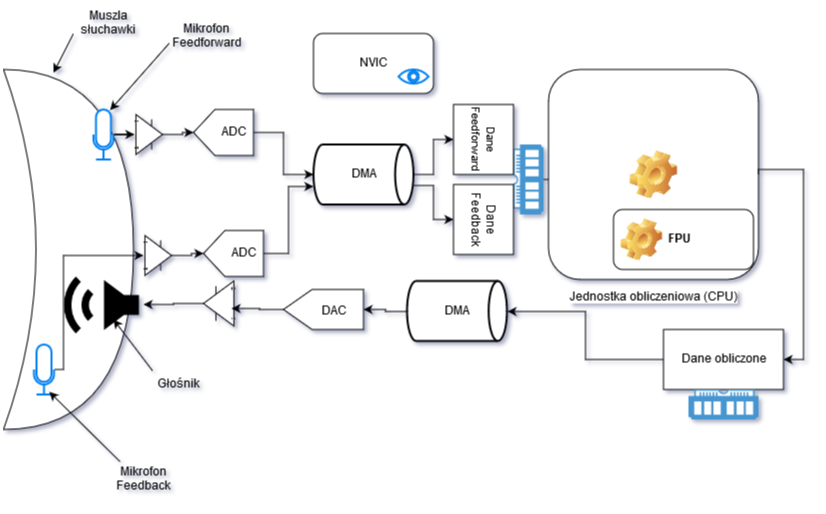
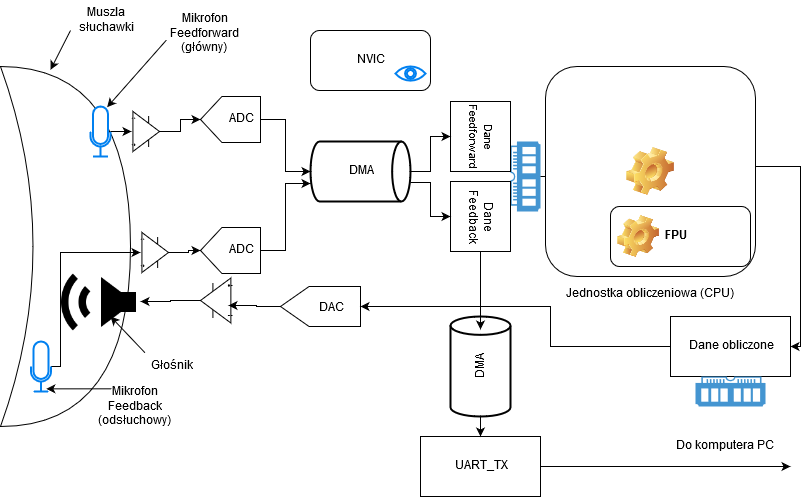
Added some assets and modified minor stuff in chapters
Summary:
- Photos of some of the components used
- Modified system schematic
- Minor changes in chapters

diff --git a/Tekst/rozdzial4Build.tex b/Tekst/rozdzial4Build.tex
@@ -3,25 +3,43 @@
 W~tym rozdziale, po wybraniu rodzaju konstrukcji oraz platformy sprzętowej, autor przedstawia zastosowane komponenty oraz generalną konstrukcję mechaniczną  i~elektryczną budowanego projektu.
 \section{Zastosowane komponenty}
 \label{sec:komponenty}
-Aby skonstruować kompletny system pasywno-aktywnego tłumienia hałasu, autor zbudował swój projekt na bazie prostych, komercyjnych nauszników tłumiących ze sklepu z~artykułami BHP, stosowanych w~budownictwie lub przemyśle (rys. \ref{fig:nauszniki}).
+Aby skonstruować kompletny system pasywno-aktywnego tłumienia hałasu, autor zbudował swój projekt na bazie prostych, komercyjnych nauszników tłumiących ze sklepu z~artykułami BHP, stosowanych w~budownictwie lub przemyśle (rys. \ref{fig:nauszniki_bhp}).
 \begin{figure}[h!]
 	\centering
-	\includegraphics[scale=0.5]{../Assets/nauszniki.png}
-	\caption{Użyte w~projekcie nauszniki ochronne.}
-	\label{fig:nauszniki}
+	\includegraphics[scale=0.4]{../Assets/nauszniki_bhp.png}
+	\caption{Użyte w~projekcie nauszniki ochronne.\\ Źródło: Copyright \textsuperscript{\textcopyright} by REIS GROUP}
+	\label{fig:nauszniki_bhp}
 \end{figure}
 
 Nauszniki te stanowią część tłumiącą pasywnie. Do stworzenia i~zaimplementowania części aktywnej układu zastosowano wymienione poniżej elektroniczne elementy analogowe oraz cyfrowe, przy czym elementy cyfrowe są wymienione każdy z~osobna, pomimo iż stanowią integralne podzespoły mikrokontrolera.
 \begin{enumerate}
 	\item Analogowe:
 	\begin{itemize}
-		\item Pojemnościowy mikrofon elektretowy typu CMA-4544PF-W -- dwie sztuki\\
-		Jeden główny (feedforward) oraz jeden odsłuchowy (feedback) wewnątrz muszli.
+		\item Pojemnościowy mikrofon elektretowy typu CMA-4544PF-W (rys. \ref{fig:mikrofony_max4466}) -- dwie sztuki\\
+		\begin{figure}[h!]
+			\centering
+			\includegraphics[scale=0.2]{../Assets/adafruit_max4466.png}
+			\caption{Użyte w~projekcie mikrofony z~przedwzmacniaczami.\\ Źródło: https://cdn-shop.adafruit.com/970x728/1063-03.jpg}
+			\label{fig:mikrofony_max4466}
+		\end{figure}
+		W~urządzeniu zamontowano jeden główny (feedforward) na zewnątrz muszli oraz jeden odsłuchowy (feedback) wewnątrz muszli słuchawki.
 		\item Przedwzmacniacz mikrofonowy typu Adafruit MAX4466 -- dwie sztuki\\
-		Wzmacniacz operacyjny zoptymalizowany przez producenta pod kątem wykorzystania z~mikrofonami. Autor zakupił przedwzmacniacz połączony przez producenta z~wyżej wymienionym mikrofonem w~ramach jednej płytki. Należy pamiętać o~potrzebie wprowadzenia korekty fazy po przesunięciu jej przez ten komponent.
-		\item Wzmacniacz audio klasy D typu Adafruit PAM8302\\
+		Wzmacniacz operacyjny zoptymalizowany przez producenta pod kątem wykorzystania z~mikrofonami. Autor zakupił przedwzmacniacz połączony przez producenta z~wyżej wymienionym mikrofonem w~ramach jednej płytki (rys. \ref{fig:mikrofony_max4466}). Należy pamiętać o~przesunięciu fazy sygnału -- jednak ten problem powinien zostać rozwiązany przez filtr adaptacyjny.
+		\item Wzmacniacz audio klasy D typu Adafruit PAM8302 (rys. \ref{fig:pam8302})\\
+		\begin{figure}[h!]
+			\centering
+			\includegraphics[scale=0.2]{../Assets/wzmacniacz_pam8302.png}
+			\caption{Użyty w~projekcie wzmacniacz audio.\\ Źródło: https://cdn-shop.adafruit.com/970x728/2130-01.jpg}
+			\label{fig:pam8302}
+		\end{figure}
 		Ten wzmacniacz monofoniczny o~mocy \SI{2.5}{\W} przeznaczony jest do współpracy z~głośnikami o~impedancji od \SI{4}{} do \SI{8}{\ohm}. Producent deklaruje sprawność w~zakresie 85-88\% \cite{speakeropamp} oraz niski współczynnik zawartości harmonicznych i~szumów (THD+N) wynoszący 10\%.
-		\item Głośnik typu MG15 o~mocy \SI{0.1}{\W} oraz impedancji \SI{8}{\ohm}
+		\item Głośnik typu MG15 o~mocy \SI{0.1}{\W} oraz impedancji \SI{8}{\ohm} (rys. \ref{fig:mg15})\\
+		\begin{figure}[h!]
+			\centering
+			\includegraphics[scale=0.1]{../Assets/glosnik_mg15.png}
+			\caption{Użyty w~projekcie głośnik.\\ Źródło: https://botland.com.pl/49567-thickbox\_default/glosnik-mg15-01w-8ohm-15x4mm.jpg}
+			\label{fig:mg15}
+		\end{figure}
 	\end{itemize}
 	\item Cyfrowe:
 	\begin{itemize}
@@ -29,7 +47,7 @@ Nauszniki te stanowią część tłumiącą pasywnie. Do stworzenia i~zaimplemen
 		Autor zdecydował się użyć dwóch osobnych przetworników do akwizycji sygnału z~mikrofonów, aby uniknąć przesłuchów, które mogłyby się pojawić w~przypadku użycia pojedynczego przetwornika. Przyczyną przesłuchów jest zwykle multiplekser analogowy wybierający kanały wejściowe przetwornika A/C. Takie rozwiązanie zmniejsza też nieznacznie opóźnienia w~przetworzeniu sygnału, gdyż można wtedy skonfigurować przetworniki w~trybie mierzenia pojedynczego kanału, a~nie skanowania po kolei wszystkich dostępnych~16. Przetwornik realizuje algorytm SAR\footnote{Sukcesywna Aproksymacja (ang. Successive Approximation Register, inaczej próbkowanie bitowe)}.\\
 		Warto zauważyć, że przetworniki dostępne na płytce użytej przez autora mają rozdzielczość 12~bitów, co pozostawia pewne pole do poprawy projektu i~wyboru komponentów, ale jednocześnie zapewnia wystarczający poziom dokładności dla potrzeb prototypowania układu.
 		\item Kontroler DMA (Direct Memory Access) -- dwie sztuki\\
-		Jeden z~kontrolerów użyty jest do transferu danych z~przetworników~A/D do pamięci mikrokontrolera STM32, zaś drugi - do transferu po przeprowadzeniu obliczeń z~pamięci do przetwornika D/A. Transfer w~pierwszym przypadku dokonywany jest w~trybie ciągłym, a~więc po każdym przerwaniu do DMA zgłoszonym przez przetwornik na końcu konwersji. W~drugim przypadku, transfer wywoływany jest po każdym skończonym cyklu obliczeniowym.
+		Jeden z~kontrolerów użyty jest do transferu danych z~przetworników~A/C do pamięci mikrokontrolera STM32, zaś drugi - do transferu (po przeprowadzeniu eksperymentu) danych mikrofonu odsłuchowego z~pamięci do kontrolera UART. Transfer w~pierwszym przypadku dokonywany jest w~trybie ciągłym, a~więc po każdym przerwaniu do DMA zgłoszonym przez przetwornik na końcu konwersji. W~drugim przypadku, transfer wywoływany jest po wciśnięciu przez testera przycisku na płytce prototypowej.
 		\item NVIC (Nested Vectored Interrupt Controller)\\
 		Kontroler przerwań (zagnieżdżonych), który przyspiesza ich obsługę.
 		\item Rdzeń mikrokontrolera\\
@@ -37,7 +55,7 @@ Nauszniki te stanowią część tłumiącą pasywnie. Do stworzenia i~zaimplemen
 		\item FPU (Floating Point Unit)\\
 		Jednostka dedykowana do obliczeń zmiennoprzecinkowych na liczbach 32-bitowych (a~więc typu float). Znacznie podnosi precyzję obliczeń na ułamkach i~przyspiesza działanie całego układu jeżeli takich działań jest dużo. Należy jednak pamiętać, że nie działa dla typu double (więc 64-bit). 
 		\item Przetwornik cyfrowo-analogowy\\
-		Do celu prototypowego użyto jednego kanału wyjściowego, aby przetestować działanie systemu w~jednolitej, odgrodzonej przestrzeni sferycznej. Konwersja sygnału na postać analogową następuje automatycznie, bez wywołania, przy każdej wykrytej zmianie słowa bitowego wpisanego do rejestru danych wyjściowych przetwornika DAC.
+		Do celu prototypowego użyto jednego kanału wyjściowego, aby przetestować działanie systemu w~jednolitej, odgrodzonej przestrzeni sferycznej. Konwersja sygnału na postać analogową następuje automatycznie, bez wywołania, przy każdej wykrytej zmianie słowa bitowego wpisanego do rejestru danych wyjściowych przetwornika DAC. Dane są wpisywane do tego rejestru po każdym skończonym cyklu obliczeniowym.
 	\end{itemize}
 \end{enumerate}
 
@@ -73,4 +91,4 @@ Mikrofon odsłuchowy umiejscowiony w~optymalnej pozycji charakteryzuje się zlin
 
 Aby stworzyć odgrodzoną przestrzeń sferyczną, autor postanowił złączyć (ścisnąć) dwie odłączone słuchawki użytych nauszników. Do celów testowych nie będzie potrzebny dodatkowy mikrofon umieszczony w~środku przestrzeni, zamiast tego zostanie użyty zamontowany już mikrofon odsłuchowy. Dane z~niego zostaną nie tylko zapisane do pamięci mikrokontrolera, ale również wysłane do komputera walidującego rozwiązanie, gdzie na bieżąco monitorowane będzie działanie układu.
 
-Aby zasilić prototyp, autor podłączył mikrokontroler poprzez USB do komputera osobistego. Zapewniło to standardowe zasilanie mikrokontrolera na poziomie \SI{3.3}{\V}. Ponadto, celem odseparowania części analogowej od cyfrowej, autor zdecydował się zapewnić osobne zasilanie dla układów analogowych, a~więc mikrofonu wraz z~jego przedwzmacniaczem oraz dla wzmacniacza głośnikowego. Tym samym zredukowane są zakłócenia, które normalnie mogłyby się przenieść z~linii zasilania układu cyfrowego do bardzo wrażliwej na te zakłócenia części analogowej. Zasilanie to, dla mikrofonów, zostało osiągnięte poprzez dołączenie pastylkowych baterii \SI{3}{\V} typu CR2032 do elementów analogowych. Zasilanie przedwzmacniacza z~głośnikiem wymaga użycia nieco innej metody ze względu na dużą moc komponentu -- zwykła bateria nie wystarczyłaby do odpowiednio długotrwałego działania układu. Biorąc pod uwagę prototypowy charakter całego urządzenia oraz konieczność połączenia mikrokontrolera z~komputerem, autor zdecydował się zasilić przedwzmacniacz przy użyciu modułu zasilającego z~płytki prototypowej, podłączonego przez magistralę USB do komputera osobistego.
+Aby zasilić prototyp, autor podłączył mikrokontroler poprzez USB do komputera osobistego. Zapewniło to standardowe zasilanie mikrokontrolera na poziomie \SI{3.3}{\V}. Ponadto, celem odseparowania części analogowej od cyfrowej, autor zdecydował się zapewnić osobne zasilanie dla układów analogowych, a~więc mikrofonu wraz z~jego przedwzmacniaczem oraz dla wzmacniacza głośnikowego. Tym samym zredukowane są zakłócenia, które normalnie mogłyby się przenieść z~linii zasilania układu cyfrowego do bardzo wrażliwej na te zakłócenia części analogowej. Zasilanie to, dla mikrofonów, zostało osiągnięte poprzez dołączenie pastylkowych baterii \SI{3}{\V} typu CR2032 do elementów analogowych. Zasilanie przedwzmacniacza z~głośnikiem wymaga użycia nieco innej metody ze względu na dużą moc komponentu -- zwykła bateria nie wystarczyłaby do odpowiednio długotrwałego działania układu. Biorąc pod uwagę prototypowy charakter całego urządzenia oraz konieczność połączenia mikrokontrolera z~komputerem, autor zdecydował się zasilić przedwzmacniacz przy użyciu modułu zasilającego z~płytki prototypowej, podłączonego przez zasilacz impulsowy DC \SI{9}{\V} do gniazdka sieciowego. Przyłącze zasilacza nie posiada złącza uziemienia, dlatego po połączeniu wszystkich komponentów w~całym układzie występuje jeden wspólny punkt uziemiający -- jest nim GNDA, czyli masa analogowa mikrokontrolera. Pozwala to uniknąć pętli masy, które miałyby wpływ na jakość sygnału w~urzadzeniu. Warto zwrócić uwagę na fakt, że gdyby moduł zasilający został podłączony przez magistralę USB, to powstałaby pętla masy pomiędzy układem mierzonym a~komputerem pomiarowym, który zapewniałby energię dla urządzenia.

diff --git a/Tekst/rozdzial7Testy.tex b/Tekst/rozdzial7Testy.tex
@@ -1,17 +1,6 @@
 \chapter{Walidacja rozwiązania}
 \label{cha:tests}
 Po wstępnym nastrojeniu układu, należy uruchomić oraz przetestować urządzenie. Autor zapoznał się w~tym celu z~normą dotyczącą mierzenia poziomu natężenia hałasu \cite{test_norm}, jednak ze względów subiektywnych zastosował się jedynie do zaleceń traktujących o~metodzie pomiarowej, nie zaś do dokładnego sposobu wykonania pomiaru. Zarówno sposób, jak i~wyniki pomiarów, opisane są w~sekcji \ref{sec:practical_test}.
-\section{Układ symulowany w środowisku MATLAB/Simulink}
-Celem zbadania zachowania algorytmu, autor utworzył model filtra FIR-LMS w~środowisku obliczeniowym MATLAB/Simulink. Model ukazano na rysunku \ref{fig:model_rys}.
-\begin{figure}[h!]
-	\centering
-	\includegraphics[scale=0.5]{../Assets/model_anc_rys.pdf}
-	\caption{Schemat modelu algorytmu aktywnego tłumienia hałasu wykonanego w~pakiecie MATLAB/Simulink.}
-	\label{fig:model_rys}
-\end{figure}
-
-Jako wejście główne podano losowo generowany sygnał, zaś jako wejście sygnału pożądanego podano odwrotność głównego sygnału. Następnie, autor wyświetlił na blokach ,,Scope'' wartości sygnałów wyjściowych. PLACEHOLDER odnośnie dodatkowych rzeczy czyli wykresy itp.
-
 \section{Test praktyczny}
 \label{sec:practical_test}
 Celem sprawdzenia jakości zbudowanego urządzenia, autor dokonał testu praktycznego, w~którym zmierzył poziom natężenia dźwięku w~pewnym pomieszczeniu ze stałym, powtarzalnym typem hałasu, w~trzech wariantach -- bez tłumienia, tylko z~tłumieniem pasywnym, oraz z~tłumieniem pasywnym i~uruchomionym tłumieniem aktywnym pochodzącym z~zaprogramowanego układu.
@@ -57,7 +46,7 @@ Widmo częstotliwościowe zamieszczono na rysunku \ref{fig:widmo_aktywnie}.
 	\label{fig:widmo_aktywnie}
 \end{figure}
 
-Dodatkowo, aby porównać zbudowany układ do istniejącego rozwiązania rynkowego, ten sam pomiar wykonano dla słuchawek Jabra Elite~80. Tak jak urządzenie autora, używają one podejścia feedforward-feedback.\cite{JabraEvolve80} Sposób realizacji rozwiązania (analogowy czy cyfrowy) nie jest nigdzie wyjawiony, można jednak domniemywać użycie analogowego toru tłumienia ze względu na dużo niższe zużycie energii elektrycznej oraz wymiary takiego układu. Słuchawki podłączono do komputera osobistego i~umieszczono w~tym samym miejscu, w~którym wcześniej mierzono urządzenie autora. Sygnał z~wnętrza słuchawek zbierano poprzez włożenie do muszli słuchawek komercyjnych mikrofonu odsłuchowego z~urządzenia autora (wciąż podpiętego do mikrokontrolera) i~przesyłanie danych z~niego (za pośrednictwem modułu komunikacji UART) do komputera monitorującego test. Średni poziom hałasu wewnątrz słuchawek firmowych zmierzony w~ten sposób wyniósł PLACEHOLDER4. Widmo częstotliwościowe tak zmierzonego dźwięku pokazano na rysunku \ref{fig:widmo_jabra}.
+Dodatkowo, aby porównać zbudowany układ do istniejącego rozwiązania rynkowego, ten sam pomiar wykonano dla słuchawek Jabra Elite~80. Tak jak urządzenie autora, używają one podejścia feedforward-feedback.\cite{JabraEvolve80} Sposób realizacji rozwiązania (analogowy czy cyfrowy) nie jest nigdzie wyjawiony, można jednak domniemywać użycie analogowego toru tłumienia ze względu na dużo niższe zużycie energii elektrycznej oraz wymiary takiego układu. Słuchawki podłączono do komputera osobistego i~umieszczono w~tym samym miejscu, w~którym wcześniej mierzono urządzenie autora. Sygnał z~wnętrza słuchawek zbierano poprzez włożenie do muszli słuchawek komercyjnych mikrofonu odsłuchowego z~urządzenia autora (wciąż podpiętego do mikrokontrolera) i~przesłanie danych z~niego (za pośrednictwem modułu komunikacji UART) do komputera monitorującego test. Średni poziom hałasu wewnątrz słuchawek firmowych zmierzony w~ten sposób wyniósł PLACEHOLDER4. Widmo częstotliwościowe tak zmierzonego dźwięku pokazano na rysunku \ref{fig:widmo_jabra}.
 \begin{figure}[h!]
 	\centering
 	\includegraphics{../Assets/widmo_jabra.png}	

diff --git a/Tekst/rozdzial1Intro.tex b/Tekst/rozdzial1Intro.tex
@@ -28,7 +28,7 @@ W~dalszej części pracy, w~rozdziale V, zostanie bliżej opisana obliczeniowa p
 
 Następnym etapem pracy jest implementacja algorytmu, co zostanie przedstawione dokładnie w~rozdziale VI. Autor przybliży schemat przetwarzania danych, opisze zastosowany algorytm, zaimplementuje go oraz dobierze jego początkowe nastawy.
 
-Wreszcie, po stworzeniu kompletnego systemu, w~rozdziale VII zostanie on porównany z~symulacją komputerową MATLAB/Simulink oraz wykonany będzie test praktyczny w~środowisku podatnym na hałas.
+Wreszcie, po stworzeniu kompletnego systemu, w~rozdziale VII wykonany będzie test praktyczny w~środowisku podatnym na hałas. Autor porówna urządzenie z~istniejącym na rynku rozwiązaniem.
 
 Na końcu, w~rozdziale VIII autor podsumuje efekty projektu oceniając jego jakość w~porównaniu do istniejących rozwiązań komercyjnych, wyciągnie wnioski i~zaproponuje możliwe usprawnienia systemu.
 \section{Przegląd literatury}
@@ -43,7 +43,5 @@ Aby zastosować się do powszechnie stosowanych i~uznawanych praktyk pracy z~sys
 Celem wybrania konkretnego podejścia, autor użył źródeł internetowych, własnych doświadczeń z~platformami sprzętowymi oraz wykonał podstawowe testy opóźnień czasowych sterowników dźwięku ALSA na mikrokomputerze Raspberry Pi Model 3B.
 
 Wreszcie, po podjęciu decyzji odnośnie platformy, na której realizowany będzie cały system, autor użył dokumentacji, not katalogowych i~podręczników użytkownika dostarczanych przez producentów stosowanej platformy sprzętowej oraz używanych peryferiów (\cite{speakeropamp, RM0390}). Skorzystanie z~wymienionych pozycji jest niezbędne, gdyż bez nich nie można dopasować urządzeń peryferyjnych (mikrofony, głośniki, wzmacniacze) bez narażania układu na uszkodzenie lub w~najlepszym wypadku -- na obniżenie jakości.
-
-Podczas tworzenia symulacji komputerowych równie ważna okazała się dokumentacja pakietu oprogramowania do obliczeń numerycznych i~symulacji komputerowych MATLAB/Simulink. 
 
 Ostatecznie, podczas testów, autor bazował na normie ISO~3740:2019 \cite{test_norm}, traktującej o~sposobach mierzenia poziomu natężenia dźwięku. Ponieważ test polegał na porównaniu działania systemu zbudowanego przez autora z~wybranym istniejącym, komercyjnym rozwiązaniem, skorzystano z~dokumentacji słuchawek Jabra~Evolve~80 \cite{JabraEvolve80}, w której można znaleźć podstawowe informacje o~zastosowanym w~słuchawkach rozwiązaniu ANC (Active Noise Control -- Aktywne Tłumienie Hałasu).

diff --git a/Tekst/rozdzial5Hardware.tex b/Tekst/rozdzial5Hardware.tex
@@ -21,7 +21,7 @@ Konfigurację systemu należy rozpocząć od uruchomienia wszystkich wymienionyc
 	\item Przetwornik cyfrowo-analogowy\\
 	Ten komponent, w~przeciwieństwie do poprzedniego, nie posiada tak wiele opcji konfiguracyjnych. Wybrano tutaj transfer jednokanałowy, gdyż układ emitował będzie sygnał monofoniczny. Gdyby układ miał spełniać funkcję słuchawek stereo z~dwoma kanałami, można byłoby wtedy otworzyć drugi kanał tego przetwornika. Ponieważ nie wybrano żadnego trybu wyzwalacza, konwersja następuje automatycznie po upłynięciu jednego cyklu zegara APB1 (o~częstotliwości \SI{84}{\MHz}) od momentu wpisania nowej wartości do odpowiedniego rejestru.
 	\item Kontroler DMA nr~1\\
-	PLACEHOLDER
+	Kontroler użyty jest do transferu zbuforowanych danych odsłuchowych z~pamięci urządzenia do kontrolera UART, który następnie wysyła te dane do komputera walidującego.
 	\item Kontroler DMA nr~2\\
 	Ten element jest konieczny do prawidłowego funkcjonowania przetworników ADC w~trybie dualnym. Gdy przetworniki skończą konwersję, 12-bitowe wyniki tego działania zapisywane są do zmiennych 16-bitowych, które następnie łączone są w~jedną zmienną 32-bitową (bity wyników zapisywane są w~tej zmiennej w~kolejności dane z~ADC2, a~następnie dane z~ADC1). Taka pojedyncza zmienna 32-bitowa jest następnie transferowana przez kontroler DMA do pamięci mikrokontrolera, skąd należy wyłuskać pojedyncze wyniki konwersji. Jest to charakterystyczne zachowanie kontrolera DMA w~trybie~2,~który jest automatycznym trybem pracy przy dwóch przetwornikach z~jednoczesną konwersją.
 	\item USART (Universal Synchronous/Asynchronous Receiver/Transmitter)\\

diff --git a/Tekst/praca.tex b/Tekst/praca.tex
@@ -115,17 +115,14 @@ backend=bibtex
 \shorttitleEN{Prototype of an active noise reduction system}
 
 \thesistype{Projekt dyplomowy inżynierski}
-%\thesistype{Master of Science Thesis}
 
 \supervisor{dr inż. Andrzej Tutaj}
 
 \degreeprogramme{Automatyka i Robotyka}
-%\degreeprogramme{Computer Science}
 
 \date{2020}
 
 \department{Katedra Automatyki i Robotyki}
-%\department{Department of Applied Computer Science}
 
 \faculty{Wydział Elektrotechniki, Automatyki,\protect\\[-1mm] Informatyki i Inżynierii Biomedycznej}
 %\faculty{Faculty of Electrical Engineering, Automatics, Computer Science and Biomedical Engineering}
